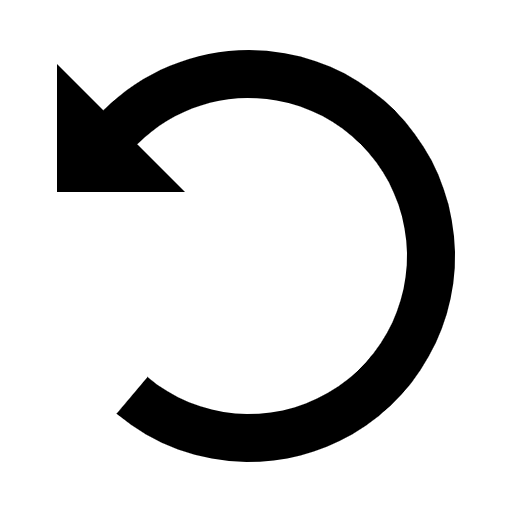
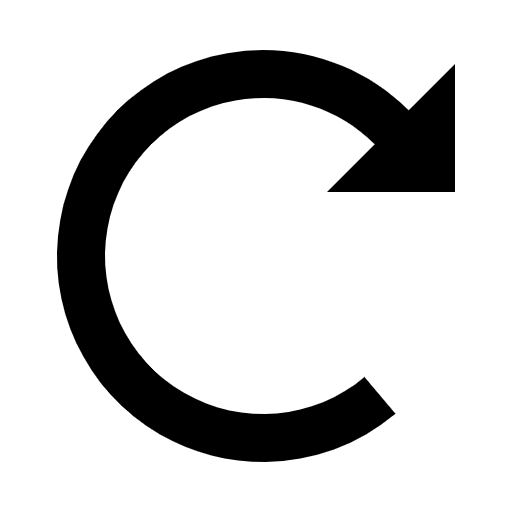
Ajout du bouton pour placer le vaisseau dans le mode éditeur

diff --git a/22_OdysseeChargee/src/etatModeEditeur/PanelModeEditeur.java b/22_OdysseeChargee/src/etatModeEditeur/PanelModeEditeur.java
@@ -62,6 +62,7 @@ public class PanelModeEditeur extends JPanel {
 	private JButton btnSupprimer;
 	private JButton btnRotation;
 	private JButton btnSauvegarder;
+	private JButton btnVaisseau;
 
 	/**
 	 * methode qui permettra de s'ajouter en tant qu'ecouteur
@@ -189,7 +190,7 @@ public class PanelModeEditeur extends JPanel {
 		add(btnDrapeau);
 
 		lblTypeSelectionne = new JLabel(preTexteTypeSelectionne);
-		lblTypeSelectionne.setBounds(64, 230, 336, 14);
+		lblTypeSelectionne.setBounds(64, 332, 336, 14);
 		add(lblTypeSelectionne);
 		btnReinitialiser = new JButton();
 		btnReinitialiser.addActionListener(new ActionListener() {
@@ -198,7 +199,7 @@ public class PanelModeEditeur extends JPanel {
 				grille.setSupprimer(false);
 			}
 		});
-		btnReinitialiser.setBounds(64, 255, 85, 85);
+		btnReinitialiser.setBounds(64, 356, 85, 85);
 		OutilsImage.lireImageEtPlacerSurBouton("reinitialiser.png", btnReinitialiser);
 		add(btnReinitialiser);
 
@@ -208,7 +209,7 @@ public class PanelModeEditeur extends JPanel {
 				grille.gererSupprimer();
 			}
 		});
-		btnSupprimer.setBounds(188, 255, 85, 85);
+		btnSupprimer.setBounds(188, 356, 85, 85);
 		OutilsImage.lireImageEtPlacerSurBouton("supprimer.png", btnSupprimer);
 		add(btnSupprimer);
 
@@ -219,7 +220,7 @@ public class PanelModeEditeur extends JPanel {
 				grille.rotation();
 			}
 		});
-		btnRotation.setBounds(315, 255, 85, 85);
+		btnRotation.setBounds(315, 356, 85, 85);
 		OutilsImage.lireImageEtPlacerSurBouton("rotation.png", btnRotation);
 		add(btnRotation);
 
@@ -232,9 +233,18 @@ public class PanelModeEditeur extends JPanel {
 			}
 
 		});
-		btnSauvegarder.setBounds(188, 351, 85, 85);
+		btnSauvegarder.setBounds(188, 451, 85, 85);
 		OutilsImage.lireImageEtPlacerSurBouton("sauvegarder.png", btnSauvegarder);
 		add(btnSauvegarder);
+		
+		btnVaisseau = new JButton();
+		btnVaisseau.addActionListener(new ActionListener() {
+			public void actionPerformed(ActionEvent e) {
+			}
+		});
+		btnVaisseau.setBounds(188, 229, 85, 85);
+		OutilsImage.lireImageEtPlacerSurBouton("vaisseau.png", btnVaisseau);
+		add(btnVaisseau);
 	}
 
 	//Kitimir Yim
@@ -244,5 +254,4 @@ public class PanelModeEditeur extends JPanel {
 		Sauvegarder.sauvegarderNiveau(niveau, nom.toLowerCase());
 
 	}
-
 }